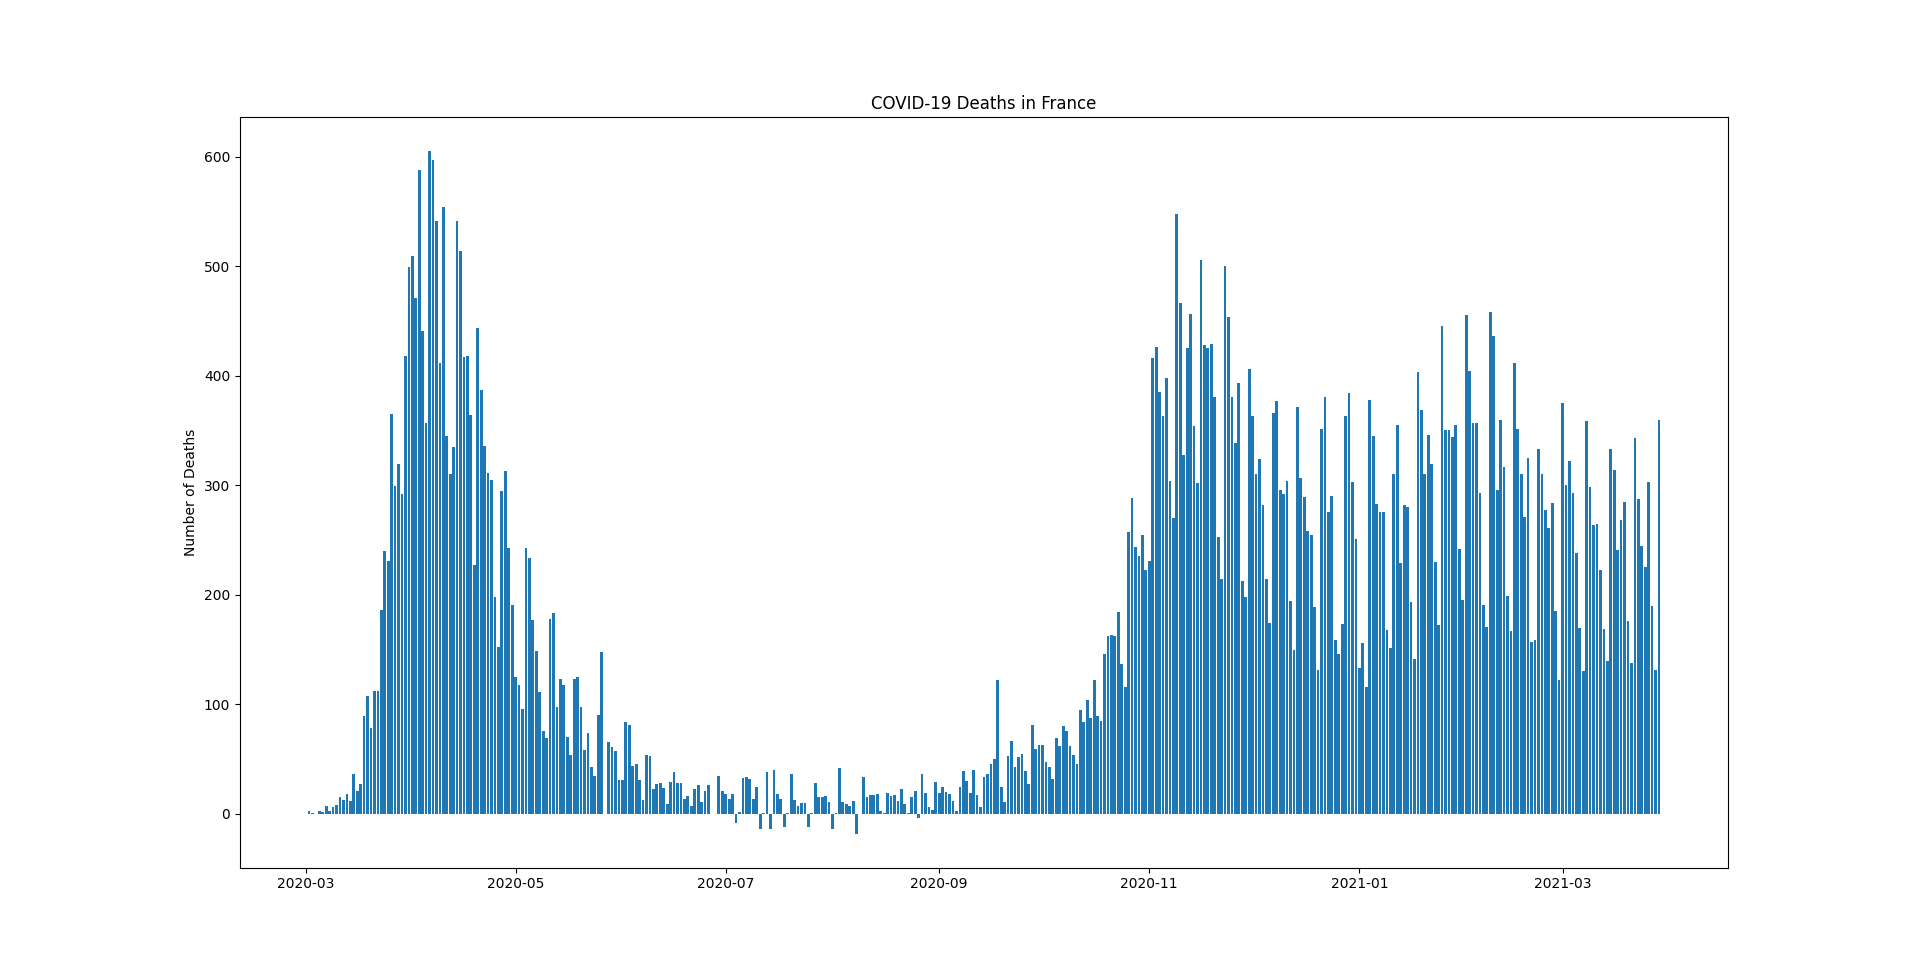
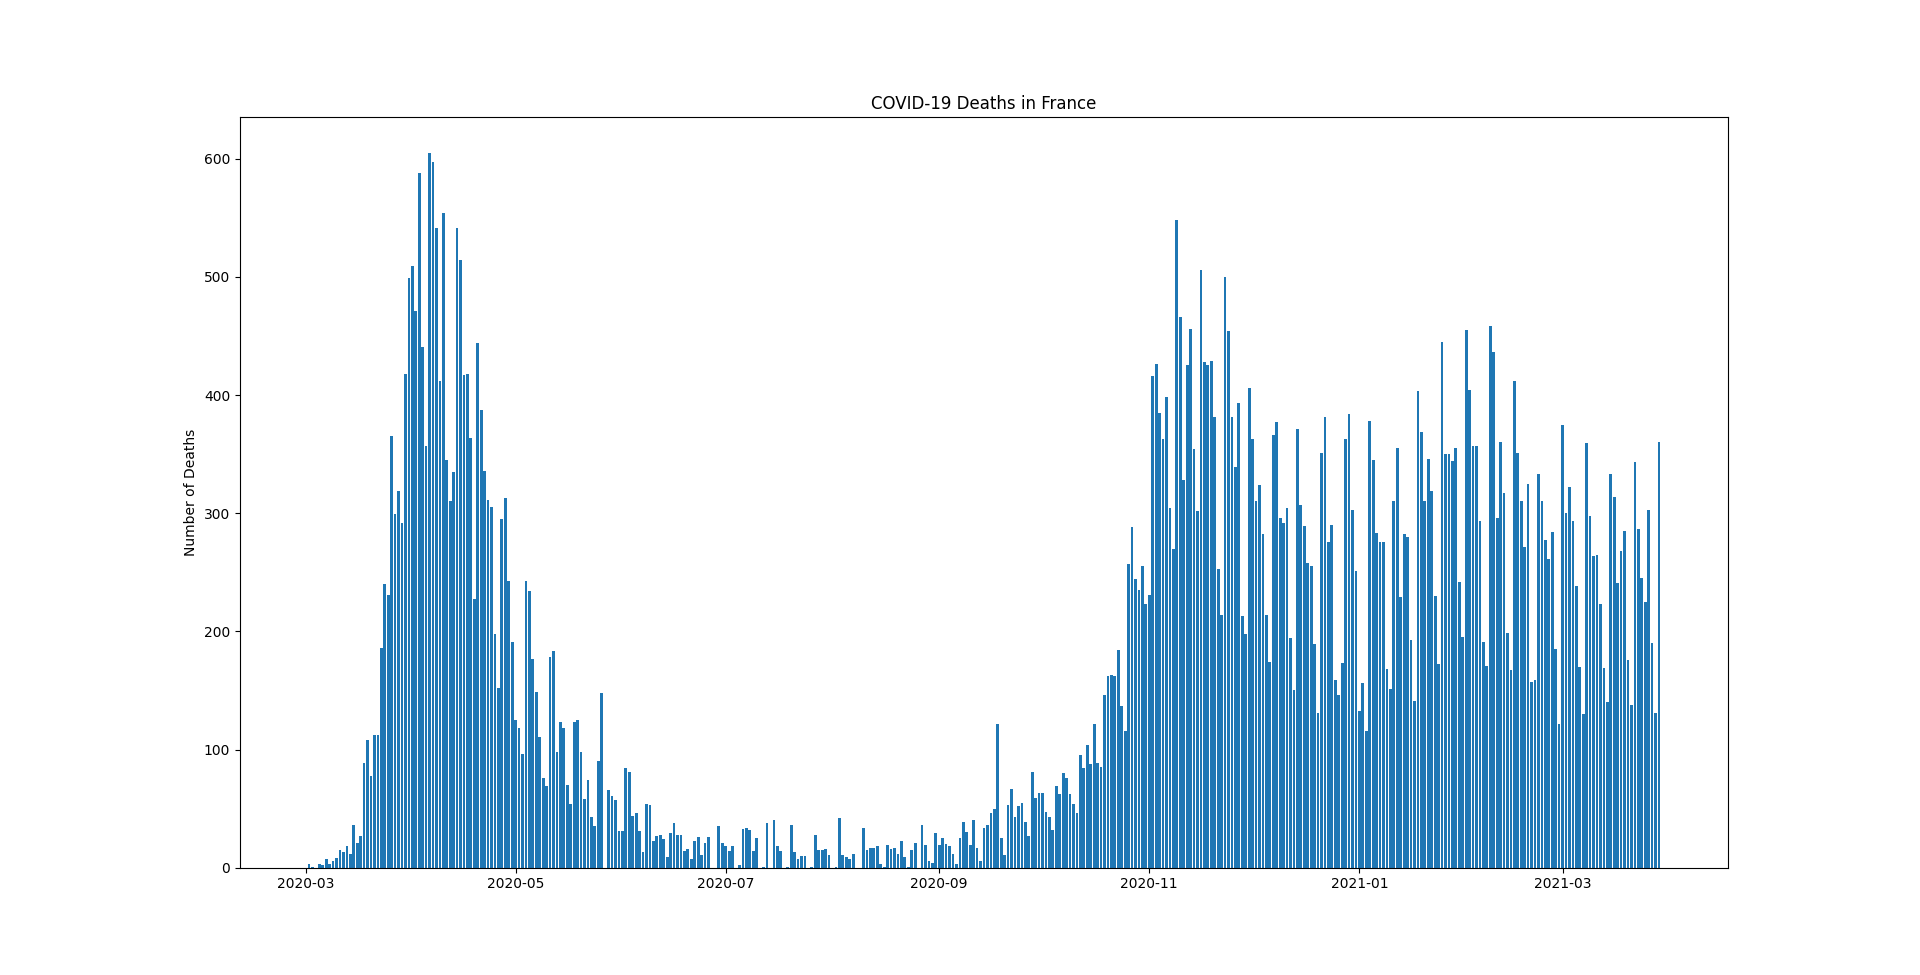
fix a plot, update body fetching sql, implement transformers lib sentiment analysis, load lexicon from csv for FEEL and update models, update deps with tensorflow, pytorch

diff --git a/lexis_nexis_scraping/shared/models.py b/lexis_nexis_scraping/shared/models.py
@@ -1,3 +1,49 @@
+import string
+
+punctuation = r'«»‹›' + string.punctuation
+
+# Actual Lexicon Model
+class FEELLexiconItem():
+    def __init__(self, id, word, polarity, joy, fear, sadness, anger, surprise, disgust):
+        self.id = id
+        self.word = word  
+        self.polarity = polarity  
+        self.joy = joy  
+        self.fear = fear  
+        self.sadness = sadness  
+        self.anger = anger  
+        self.surprise = surprise  
+        self.disgust = disgust  
+    
+    def to_dict(self):
+        return {
+            'id': self.id,
+            'word': self.word,
+            'polarity': self.polarity,
+            'joy': self.joy,
+            'fear': self.fear,
+            'sadness': self.sadness,
+            'anger': self.anger,
+            'surprise': self.surprise,
+            'disgust': self.disgust
+        }
+# Enums for FEEL
+class LexiconModel():
+    def __init__(self, index, name):
+        self.index = index
+        self.name = name
+
+class FEELModel():
+    id = LexiconModel(name='id', index=0)
+    word = LexiconModel(name='word', index=1)
+    polarity = LexiconModel(name='polarity', index=2)
+    joy = LexiconModel(name='joy', index=3)
+    fear = LexiconModel(name='fear', index=4)
+    sadness = LexiconModel(name='sadness', index=5)
+    anger = LexiconModel(name='anger', index=6)
+    surprise = LexiconModel(name='surprise', index=7)
+    disgust = LexiconModel(name='disgust', index=8)
+
 # Model used to load data from the FR Gov Synthese dataset
 class GouvSyntheseModel():
     casConfirmes = 'casConfirmes'

diff --git a/lexis_nexis_scraping/shared/folders.py b/lexis_nexis_scraping/shared/folders.py
@@ -1,7 +1,8 @@
-output_folder = r'/home/sam/dev/fyp/lexis_nexis_scraping/download_monthly'
-download_folder = r'/home/sam/dev/fyp/lexis_nexis_scraping/download'
-data_folder = r'/home/sam/dev/fyp/lexis_nexis_scraping/data/'
-tmp_folder = r'/home/sam/dev/fyp/lexis_nexis_scraping/tmp'
+path_to_root_dir = r'/home/sam/dev/fyp/lexis_nexis_scraping/'
+output_folder = path_to_root_dir + r'download_monthly'
+download_folder = path_to_root_dir + r'download'
+data_folder = path_to_root_dir + r'data/'
+tmp_folder = path_to_root_dir + r'tmp'
 
 articles_words_freq = 'articles_body_frequencies.json'
 titles_words_freq = 'title_frequencies.json'
@@ -12,7 +13,8 @@ articles_weekly_frequencies = 'articles_weekly_frequencies.json'
 weekly_average_word_count = 'weekly_average_word_count.json'
 monthly_average_word_count = 'monthly_average_word_count.json'
 
-loaded_batches_full_path = '/home/sam/dev/fyp/lexis_nexis_scraping/data/db/loaded_batches.txt'
-current_batch_full_path = '/home/sam/dev/fyp/lexis_nexis_scraping/data/db/current_batch.txt'
-titles_word_freq_wordcloud = '/home/sam/dev/fyp/lexis_nexis_scraping/data/plots/titles_word_freq_wordcloud.png'
-articles_word_freq_wordcloud = '/home/sam/dev/fyp/lexis_nexis_scraping/data/plots/articles_word_freq_wordcloud.png'
+loaded_batches_full_path = r'data/db/loaded_batches.txt'
+current_batch_full_path = r'data/db/current_batch.txt'
+titles_word_freq_wordcloud = r'data/plots/titles_word_freq_wordcloud.png'
+articles_word_freq_wordcloud = r'data/plots/articles_word_freq_wordcloud.png'
+FEEL_lexicon = r'FEEL/FEEL.csv'

diff --git a/lexis_nexis_scraping/shared/text_processing.py b/lexis_nexis_scraping/shared/text_processing.py
@@ -1,15 +1,9 @@
 import spacy
+from .models import punctuation
 
 print("Loading spacy language package...")
 nlp = spacy.load("fr_core_news_lg")
-print("Done")
-
-# camembert_tokenizer = CamembertTokenizer.from_pretrained("camembert-base")
-# camembert_tokenizer_fast = CamembertTokenizerFast.from_pretrained("camembert-base")
-
-# def process_text_camembert():
-#     tokenized_sentence = camembert_tokenizer.tokenize("Bonjour moi c'est samuel")
-#     print(tokenized_sentence)
+print("Loaded fr_core_news_lg")
 
 
 def process_text(text, remove_stop_words=True, vectorize=False):
@@ -21,3 +15,19 @@ def process_text(text, remove_stop_words=True, vectorize=False):
     except Exception as e:
         print(e)
         return []
+
+# Remove stop words and punctuations. Truncate tokens.
+def clean_text_for_tf_model(text, truncate=True):
+    doc = nlp(text)
+    tokens = [token.text for token in doc if not token.is_stop and token.text.strip(punctuation)]
+    if truncate and len(tokens) > 1024:
+        tokens = tokens[:1024]
+    return ' '.join(tokens)
+
+
+def clean_texts_for_tf_model(texts):
+    print("Removing stop words, punctuation and truncating texts")
+    output = []
+    for t in texts:
+        output.append(clean_text_for_tf_model(t[0]))
+    return output

diff --git a/lexis_nexis_scraping/shared/barthez_classifier.py b/lexis_nexis_scraping/shared/barthez_classifier.py
@@ -1,0 +1,24 @@
+from transformers import (
+    AutoTokenizer,
+    AutoModelForSequenceClassification,
+    pipeline,
+    CamembertTokenizer
+)
+from .text_processing import clean_texts_for_tf_model
+
+# Init language classifier
+tokenizer = AutoTokenizer.from_pretrained("moussaKam/barthez", add_special_tokens=True, do_lowercase=True, truncation=True, is_split_into_words=False)
+model = AutoModelForSequenceClassification.from_pretrained("moussaKam/barthez-sentiment-classification")
+classifier = pipeline('sentiment-analysis', model=model, tokenizer=tokenizer)
+
+def predict_sentiment_barthez(texts):
+    print("Analysis with Barthez model %d texts" % (len(texts)))
+    cleaned_texts = clean_texts_for_tf_model(texts)
+    print("Texts cleaned. Running classifier")
+    output = []
+    for t in cleaned_texts:
+        result = classifier(t)[0]
+        output.append(result)
+        print("Predicted label: %s - Score %f" % (result['label'], result['score']))
+    
+    return output

diff --git a/lexis_nexis_scraping/shared/db_helpers.py b/lexis_nexis_scraping/shared/db_helpers.py
@@ -157,11 +157,11 @@ def load_titles():
         raise Exception({'error': 'MySQL error: %s' % (err)})
 
 
-def load_full_articles():
-    print("Loading all articles bodies...")
-    script = load_sql_script('sql/all_bodies.sql')
+def load_articles_limit(limit=20):
+    print("Loading articles with limit %d" % (limit))
+    script = load_sql_script('sql/all_bodies_limit.sql')
     try:
-        cursor.execute(script)
+        cursor.execute(script, [(limit)])
         return cursor.fetchall()
     except mysql.connector.Error as err:
         raise Exception({'error': 'MySQL error: %s' % (err)})

diff --git a/lexis_nexis_scraping/shared/feel_lexicon_helper.py b/lexis_nexis_scraping/shared/feel_lexicon_helper.py
@@ -1,0 +1,16 @@
+from .folders import FEEL_lexicon
+from .file_read_write import read_file
+from .models import FEELModel, FEELLexiconItem
+import json
+
+def load_lexicon():
+    data = read_file(FEEL_lexicon)
+    lines = data.split("\n")[1:] # skip first row
+    del data
+    output = []
+    for l in lines:
+        if not l:
+            continue
+        values = l.split(";")
+        output.append(FEELLexiconItem(*values))
+    return output

diff --git a/lexis_nexis_scraping/sentiment_analysis.py b/lexis_nexis_scraping/sentiment_analysis.py
@@ -1,0 +1,11 @@
+from shared.barthez_classifier import predict_sentiment_barthez
+from shared.db_helpers import load_articles_limit, init_db
+
+def predict_articles_sentiments():
+    init_db()
+    data = load_articles_limit()
+    predictions_barthez = predict_sentiment_barthez(data)
+    print(predictions_barthez)
+
+
+predict_articles_sentiments()

diff --git a/lexis_nexis_scraping/plot_gov_data.py b/lexis_nexis_scraping/plot_gov_data.py
@@ -9,7 +9,7 @@ from datetime import datetime
 # This method makes the data non-cumulative
 def de_sum_data(data):
     for i in reversed(range(1, len(data))):
-        data[i] = data[i] - data[i - 1]
+        data[i] = max(0, data[i] - data[i - 1])
     return data    
 
 

diff --git a/lexis_nexis_scraping/sentiment_analysis_feel.py b/lexis_nexis_scraping/sentiment_analysis_feel.py
@@ -1,0 +1,6 @@
+from shared.feel_lexicon_helper import load_lexicon
+
+
+lex = load_lexicon()
+
+print(len(lex))

diff --git a/lexis_nexis_scraping/shared/feel_sentiment_classifier.py b/lexis_nexis_scraping/shared/feel_sentiment_classifier.py
@@ -1,0 +1,4 @@
+
+
+def compute_sentiment(text):
+    return None # TODO

diff --git a/lexis_nexis_scraping/README.md b/lexis_nexis_scraping/README.md
@@ -6,6 +6,8 @@
 
 `python -m spacy download fr_core_news_sm`
 
+`pip install torch==1.8.1+cpu torchvision==0.9.1+cpu torchaudio==0.8.1 -f https://download.pytorch.org/whl/torch_stable.html`
+
 ## Requirement
 
 LexisNexis Uni subscription
